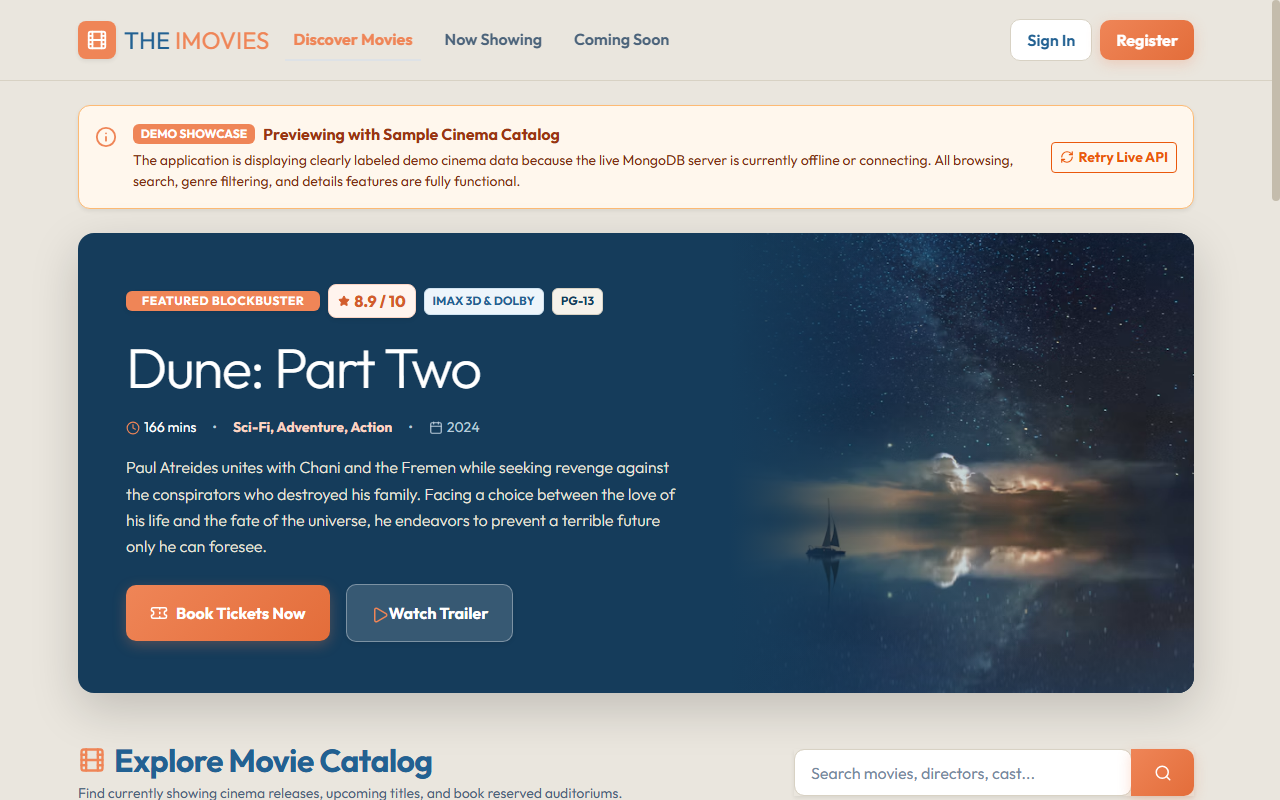
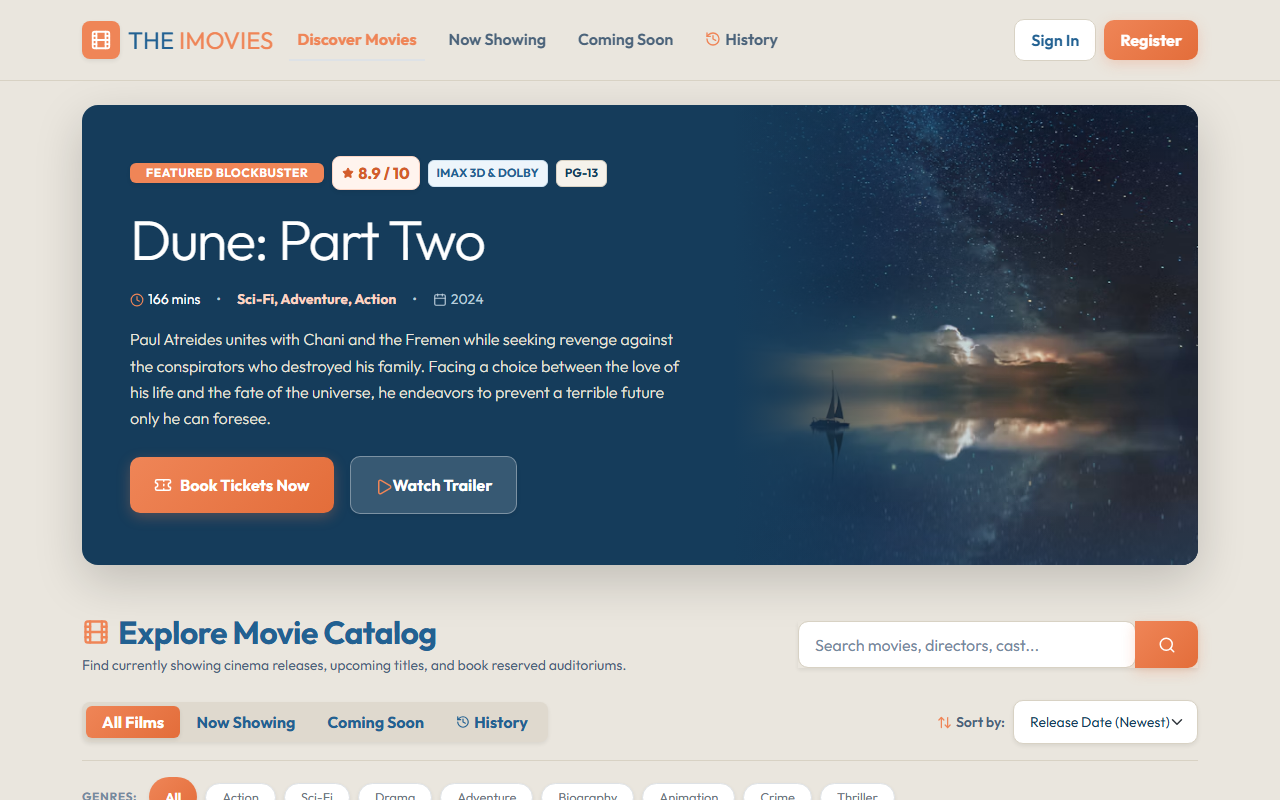
docs: update visual preview screenshots and README for connected database

diff --git a/README.md b/README.md
@@ -32,11 +32,12 @@
   - **10-minute temporary seat hold** with live countdown timer to prevent race conditions and double-booking.
   - Auto-release mechanism when hold expires or when a user deselects.
 
-- **🎟 Streamlined Ticket Booking**:
-  - Direct, single-click booking confirmation with zero third-party payment gateway friction.
-  - Generates verifiable digital ticket passes with unique confirmation codes, barcodes, and QR metadata.
+- **🎟 Streamlined Ticket Booking & Educational Payment Sandbox**:
+  - Interactive **Educational Demo Payment Gateway**: simulated Card (Visa, Mastercard, RuPay with live preview and test autofill), UPI & dynamic QR code, Net Banking, and Wallets.
+  - Realistic **3D-Secure 2.0 / OTP verification simulation** with instant settlement and verified digital ticket pass issuance.
+  - Dedicated **Ticket Booking History & Archive (`/history`)** accessible directly beside *Coming Soon* in the navigation bar and homepage status tabs.
   - Print-friendly ticket layout formatted for clean physical receipts.
-  - Customer booking history dashboard with self-service cancellation for eligible upcoming showtimes.
+  - Self-service cancellation for eligible upcoming showtimes (> 2 hours prior to start) with automatic seat inventory restoration.
 
 - **📊 Cinema Administration Portal (`/admin`)**:
   - KPI overview metrics (total revenue in ₹, tickets booked, active movies, and scheduled screenings).
